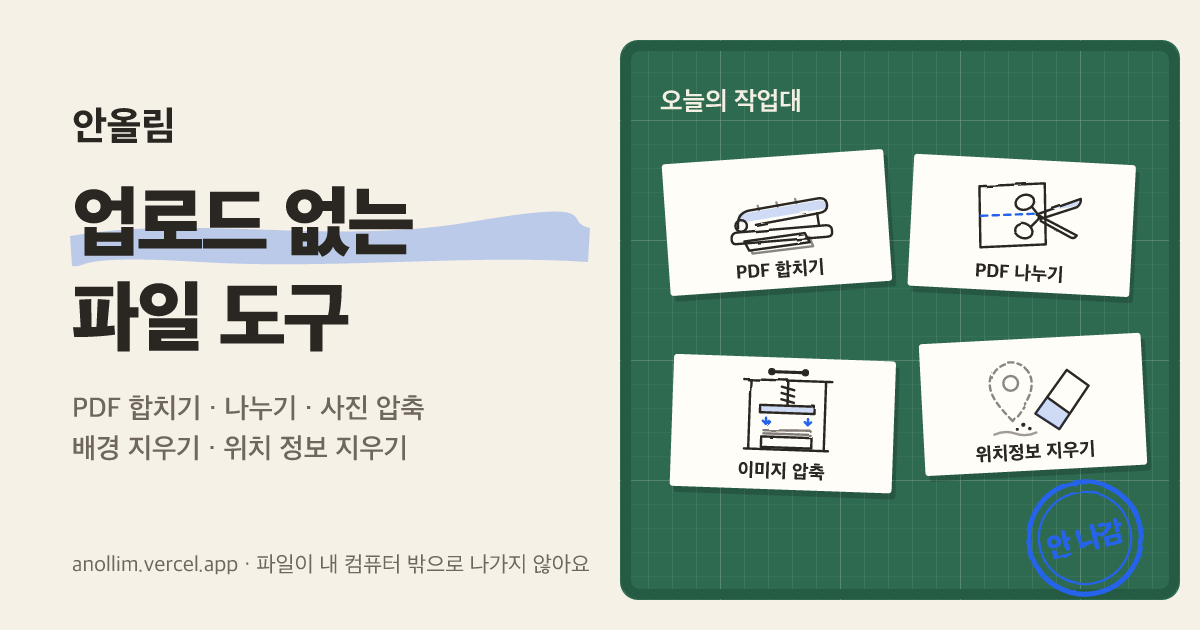
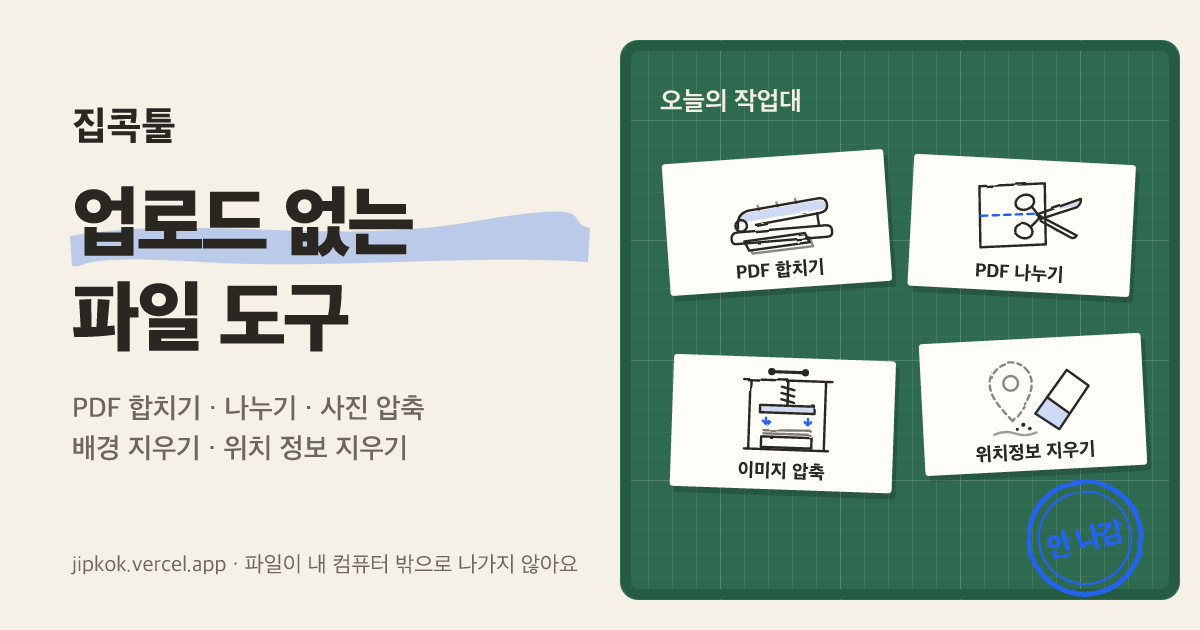
이름 변경: 안올림 → 집콕툴 (jipkok.vercel.app)

Changed region(s): [[0.0617, 0.8746, 0.4933, 0.9349], [0.0617, 0.1508, 0.1542, 0.2413]]

diff --git a/index.html b/index.html
@@ -3,14 +3,14 @@
 <head>
 <meta charset="utf-8">
 <meta name="viewport" content="width=device-width, initial-scale=1">
-<title>안올림 — 업로드 없는 파일 도구</title>
+<title>집콕툴 — 업로드 없는 파일 도구</title>
 <meta name="description" content="PDF 합치기·나누기·회전, 이미지 압축·변환, 사진 배경 지우기, 사진 위치 정보 지우기. 모든 처리는 브라우저 안에서 끝나요. 파일이 내 컴퓨터 밖으로 나가지 않아요.">
 <meta name="theme-color" content="#f6f1e7">
 <meta property="og:type" content="website">
-<meta property="og:url" content="https://anollim.vercel.app/">
-<meta property="og:title" content="안올림 — 업로드 없는 파일 도구">
+<meta property="og:url" content="https://jipkok.vercel.app/">
+<meta property="og:title" content="집콕툴 — 업로드 없는 파일 도구">
 <meta property="og:description" content="PDF·사진 작업을 브라우저 안에서. 파일이 내 컴퓨터 밖으로 나가지 않아요.">
-<meta property="og:image" content="https://anollim.vercel.app/assets/og.png">
+<meta property="og:image" content="https://jipkok.vercel.app/assets/og.png">
 <meta property="og:image:width" content="1200">
 <meta property="og:image:height" content="630">
 <meta name="twitter:card" content="summary_large_image">
@@ -28,7 +28,7 @@
 <body>
 <div class="wrap">
   <nav>
-    <a class="brand" href="#"><img src="/assets/icon.svg" alt="" width="38" height="38"><span>안올림<small class="hand">업로드 없는 파일 도구</small></span></a>
+    <a class="brand" href="#"><img src="/assets/icon.svg" alt="" width="38" height="38"><span>집콕툴<small class="hand">업로드 없는 파일 도구</small></span></a>
     <div class="links"><a href="#tools">도구</a><a href="#trust">정말 안 올라가나요?</a></div>
   </nav>
 
@@ -37,7 +37,7 @@
       <div class="hero-text">
         <p class="hand hero-note">설치 ✕ · 가입 ✕ · 업로드 ✕</p>
         <h1><span class="marker">업로드 없는</span><br>파일 도구</h1>
-        <p class="lead">PDF 합치기부터 사진 배경 지우기까지, 모든 작업은 지금 보고 있는 이 브라우저 안에서 끝나요. <b>파일이 내 컴퓨터 밖으로 나가지 않아요.</b></p>
+        <p class="lead">PDF 합치기부터 사진 배경 지우기까지, 모든 작업은 지금 보고 있는 이 브라우저 안에서 끝나요. <b>파일은 집콕 — 내 컴퓨터 밖으로 나가지 않아요.</b></p>
       </div>
       <div class="hero-desk" aria-hidden="true">
         <div class="mat mat-mini">
@@ -60,7 +60,7 @@
       <div class="note">
         <span class="tape tape-l" aria-hidden="true"></span><span class="tape tape-r" aria-hidden="true"></span>
         <h2>정말 <span class="circled" id="circ">안 올라가나요?</span></h2>
-        <p>안올림에는 파일을 받는 서버가 아예 없어요. 페이지에 <b>보안 정책(CSP)</b>을 걸어서, 브라우저가 이 사이트 말고 다른 곳으로는 데이터를 보낼 수 없게 막아두었어요. 실수로라도 파일이 나갈 길이 없어요.</p>
+        <p>집콕툴에는 파일을 받는 서버가 아예 없어요. 페이지에 <b>보안 정책(CSP)</b>을 걸어서, 브라우저가 이 사이트 말고 다른 곳으로는 데이터를 보낼 수 없게 막아두었어요. 실수로라도 파일이 나갈 길이 없어요.</p>
         <ol class="steps">
           <li>PC에서 <kbd>F12</kbd>(맥은 <kbd>⌥⌘I</kbd>)로 개발자 도구를 열어요.</li>
           <li><b>네트워크</b> 탭을 연 채로 아무 도구에 파일을 넣어 보세요.</li>
@@ -87,8 +87,8 @@
     <p>개인정보: 로그인 없음. 파일은 브라우저 메모리에서만 다루고 어디에도 저장·전송하지 않아요. 저장하는 데이터도 없어요.</p>
     <p>쓴 오픈소스: pdf-lib · PDF.js · fflate · exifr · heic-to · <a href="https://github.com/imgly/background-removal-js" target="_blank" rel="noopener">@imgly/background-removal</a>(AGPL-3.0, CSP에 맞게 일부 수정) · ONNX Runtime Web · rough.js · anime.js</p>
     <p>문의: <a href="mailto:cowhddnjsdl0@gmail.com">cowhddnjsdl0@gmail.com</a> · <a href="https://toon.at/donate/ggyaaaaak" target="_blank" rel="noopener">☕ 응원하기</a></p>
-    <p>안올림은 <a href="https://github.com/Jone4865/anollim" target="_blank" rel="noopener">소스 코드가 공개</a>된 AGPL-3.0 프로젝트예요.</p>
-    <p>© 2026 안올림 · <a href="https://jone-lab.vercel.app">Jone Lab의 다른 프로젝트 보기</a></p>
+    <p>집콕툴은 <a href="https://github.com/Jone4865/jipkok" target="_blank" rel="noopener">소스 코드가 공개</a>된 AGPL-3.0 프로젝트예요.</p>
+    <p>© 2026 집콕툴 · <a href="https://jone-lab.vercel.app">Jone Lab의 다른 프로젝트 보기</a></p>
   </footer>
 </div>
 <div class="toast" id="toast" role="status" aria-live="polite"></div>

diff --git a/js/app.js b/js/app.js
@@ -1,4 +1,4 @@
-// 안올림 — 라우터 (#pdf-merge 같은 주소로 도구마다 공유 가능)
+// 집콕툴 — 라우터 (#pdf-merge 같은 주소로 도구마다 공유 가능)
 import { h, ICONS, filesFromPaste, toast } from "./ui.js";
 import { mountMerge, mountSplit, mountOrganize } from "./tools-pdf.js";
 import { mountImgToPdf, mountCompress, mountExif } from "./tools-img.js";
@@ -47,7 +47,7 @@ function route() {
     return;
   }
   home.hidden = true; view.hidden = false;
-  document.title = `${tool.title} — 안올림`;
+  document.title = `${tool.title} — 집콕툴`;
   const body = h("div", { class: "tool-body" });
   view.replaceChildren(h("section", { class: "tool", "aria-labelledby": "tool-title" },
     h("a", { class: "back", href: "#" }, h("span", { html: ICONS.back, style: "display:contents" }), "모든 도구"),

diff --git a/js/pdf-worker.js b/js/pdf-worker.js
@@ -2,7 +2,7 @@
 import { PDFDocument, degrees } from "../vendor/pdf-lib-1.17.1.esm.min.js";
 import { layoutImage } from "./lib.js";
 
-const PRODUCER = "안올림 (anollim.vercel.app) — 브라우저 안에서 처리";
+const PRODUCER = "집콕툴 (jipkok.vercel.app) — 브라우저 안에서 처리";
 
 async function load(buf) {
   try {
@@ -15,7 +15,7 @@ async function load(buf) {
 }
 
 function fresh() {
-  return PDFDocument.create().then((d) => { d.setProducer(PRODUCER); d.setCreator("안올림"); return d; });
+  return PDFDocument.create().then((d) => { d.setProducer(PRODUCER); d.setCreator("집콕툴"); return d; });
 }
 
 async function save(doc) {

diff --git a/css/style.css b/css/style.css
@@ -1,4 +1,4 @@
-/* 안올림 — "작업대": 종이 바탕 + 초록 커팅 매트 + 종이 서류 + 손그림 문구류 */
+/* 집콕툴 — "작업대": 종이 바탕 + 초록 커팅 매트 + 종이 서류 + 손그림 문구류 */
 :root {
   --paper: #f6f1e7; --sheet: #fffdf7; --ink: #2a2622; --muted: #6f675e; --line: #d9d0c1; --line2: #c7bcaa;
   --acc: #2563eb; --acc-soft: rgba(37,99,235,.14); --acc-ink: #1d4ed8;

diff --git a/js/ui.js b/js/ui.js
@@ -149,7 +149,7 @@ export function sortable(container, itemSelector, onMove, { horizontal = false }
     from = items().indexOf(it);
     it.classList.add("dragging");
     e.dataTransfer.effectAllowed = "move";
-    e.dataTransfer.setData("text/x-anollim", String(from));
+    e.dataTransfer.setData("text/x-jipkok", String(from));
   });
   const where = (e, it) => {
     const r = it.getBoundingClientRect();

diff --git a/js/lib.js b/js/lib.js
@@ -1,4 +1,4 @@
-// 안올림 — 순수 함수 모음 (DOM 없음, node --test 로 테스트)
+// 집콕툴 — 순수 함수 모음 (DOM 없음, node --test 로 테스트)
 
 /**
  * "1-3, 5, 8-10" 같은 페이지 범위를 해석해요.

diff --git a/dev/make-og.py b/dev/make-og.py
@@ -24,13 +24,13 @@ og = f'''<svg xmlns="http://www.w3.org/2000/svg" width="1200" height="630" viewB
 <text x="660" y="110" {F} font-weight="700" font-size="26" fill="#f3efe2">오늘의 작업대</text>
 {cards}
 <path d="M70 236 C200 214 330 246 470 222 S560 222 590 228 L588 262 C470 254 330 270 200 262 S90 268 72 266 Z" fill="#2563eb" fill-opacity=".28"/>
-<text x="72" y="140" {F} font-weight="800" font-size="40" fill="#2a2622">안올림</text>
+<text x="72" y="140" {F} font-weight="800" font-size="40" fill="#2a2622">집콕툴</text>
 <text x="72" y="250" {F} font-weight="900" font-size="78" fill="#2a2622" letter-spacing="-3">업로드 없는</text>
 <text x="72" y="345" {F} font-weight="900" font-size="78" fill="#2a2622" letter-spacing="-3">파일 도구</text>
 <text x="72" y="418" {F} font-weight="600" font-size="28" fill="#6f675e">PDF 합치기 · 나누기 · 사진 압축</text>
 <text x="72" y="458" {F} font-weight="600" font-size="28" fill="#6f675e">배경 지우기 · 위치 정보 지우기</text>
 <g transform="translate(1085,538) rotate(-14) scale(.72)" filter="url(#pen)" fill="none" stroke="#2563eb"><circle r="78" stroke-width="7"/><circle r="64" stroke-width="3"/>
 <text y="16" text-anchor="middle" {F} font-weight="900" font-size="40" fill="#2563eb" stroke="none" letter-spacing="-2">안 나감</text></g>
-<text x="72" y="572" {F} font-size="22" fill="#6f675e">anollim.vercel.app · 파일이 내 컴퓨터 밖으로 나가지 않아요</text>
+<text x="72" y="572" {F} font-size="22" fill="#6f675e">jipkok.vercel.app · 파일이 내 컴퓨터 밖으로 나가지 않아요</text>
 </svg>'''
 open('og.svg', 'w').write(og)

diff --git a/README.md b/README.md
@@ -1,6 +1,6 @@
-# 안올림 — 업로드 없는 파일 도구
+# 집콕툴 — 업로드 없는 파일 도구
 
-https://anollim.vercel.app
+https://jipkok.vercel.app
 
 PDF 합치기·나누기·회전, 이미지 → PDF, 이미지 압축·변환, 사진 배경 지우기, 사진 정보(EXIF·위치) 지우기를
 **브라우저 안에서만** 처리하는 정적 사이트예요. 서버 함수가 없고, `vercel.json` 의 CSP(`connect-src 'self' blob: https://staticimgly.com`)로
